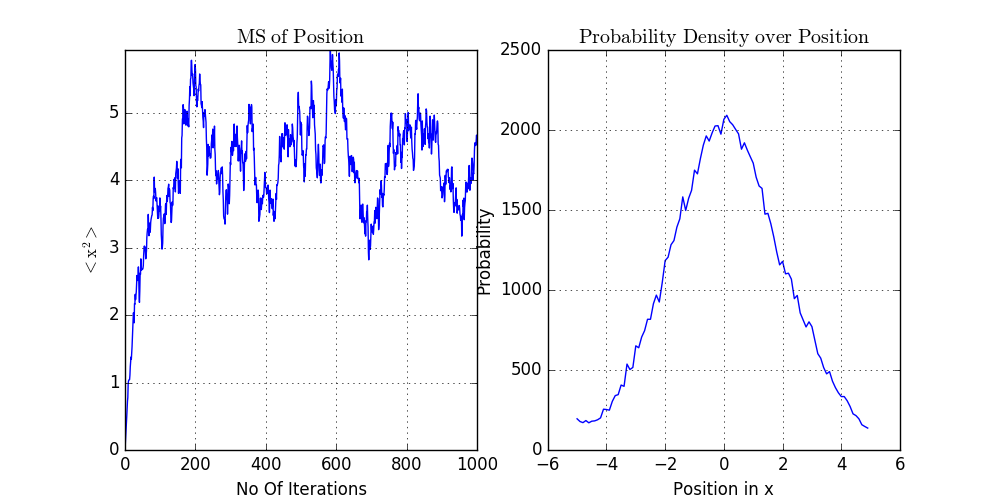
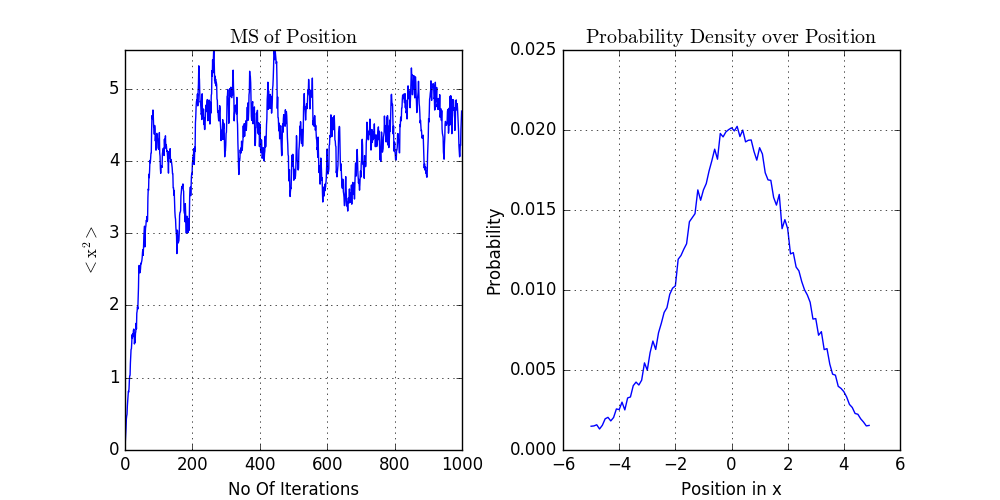
Corrections and Updates

diff --git a/PIMC.py b/PIMC.py
@@ -49,12 +49,13 @@ def mcstep(path): #One Markov Chain Monte Carlo Step - Metropolis Algorithm
     return x_new #New position as determined by the acceptance probability
 
 
-def render_plots(path,ensemble_pdf,ms):
+def render_plots(path,normed_pdf,ms):
 
     #Scatter plot of MS values of position
     f = plt.figure(1,figsize=(10, 5), dpi=80)
     f.canvas.set_window_title('Harmonic Oscillator')
     fs = gridspec.GridSpec(1, 2, width_ratios=[1,1])
+    fs.update(wspace = 0.3)
     plt.subplot(fs[0])
     plt.xlabel('No Of Iterations')
     plt.ylabel(r'$\mathrm{<x^2>}$')
@@ -68,19 +69,19 @@ def render_plots(path,ensemble_pdf,ms):
     plt.xlabel('Position in x')
     plt.ylabel('Probability')
     plt.title(r'$\mathrm{Probability\ Density\ over\ Position}$')
-    #plt.axis([path.x_min, path.x_max, 0, 0.05])
-    #plt.hist(ensemble_pdf, normed=True, bins=100)
-    plt.plot((np.arange(path.x_min,path.x_max, 1.0*(path.x_max-path.x_min)/path.n_bins)).tolist(),\
-                ensemble_pdf)
+    x = (np.arange(path.x_min,path.x_max,\
+            1.0*(path.x_max-path.x_min)/path.n_bins)).tolist() #Range of position values between which path was generated
+    y = normed_pdf
+    plt.plot(x,y)
     plt.grid(True)
 
     plt.show()
 
-#def dump_data(ensemble_pdf,ms,energy):
-#    with open('PIMC_data.csv', 'w', newline='') as fp:
-#        a = csv.writer(fp, delimiter=',')
-#        data = [final_path, ms, energy]
-#        a.writerows(data)
+def dump_data(normed_pdf,ms,energy):
+    with open('PIMC_data.csv', 'w') as fp:
+        a = csv.writer(fp, delimiter=',')
+        data = [normed_pdf, ms, energy]
+        a.writerows(data)
 
 
 def PIMC(path):
@@ -103,8 +104,9 @@ def PIMC(path):
             bins = abs(int((x_new - path.x_min)/ (path.x_max - path.x_min) * path.n_bins))
             if(bins<path.n_bins):ensemble_pdf[bins]+=1
             energy.append(path.E(x_new))
+    normed_pdf = [float(i)/sum(ensemble_pdf) for i in ensemble_pdf] #Normalized pdf of the ensemble of paths-sum(ensemble_pdf)=n_steps*M
     print("Rendering Plots...")
-    render_plots(path,ensemble_pdf,ms)
+    render_plots(path,normed_pdf,ms)
     print("Dumping all data into a CSV file...")
-#   dump_data(ensemble_pdf,ms,energy)
+    #dump_data(normed_pdf,ms,energy)
     print("Finished! - All tasks successfully completed!")
